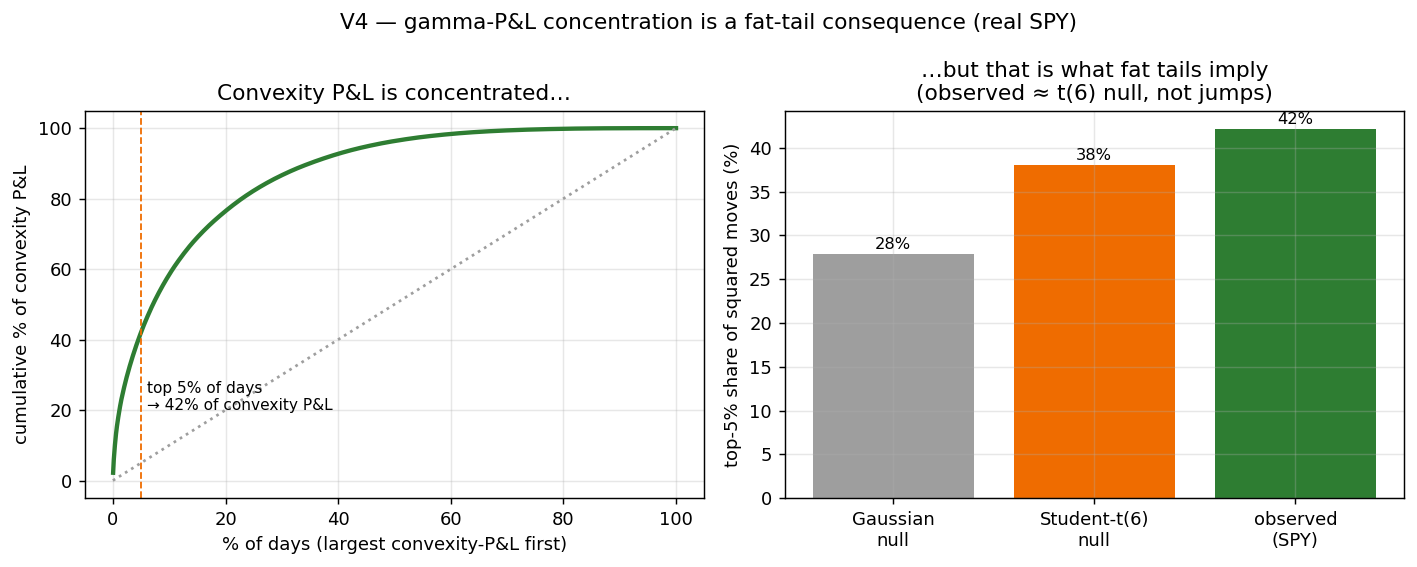
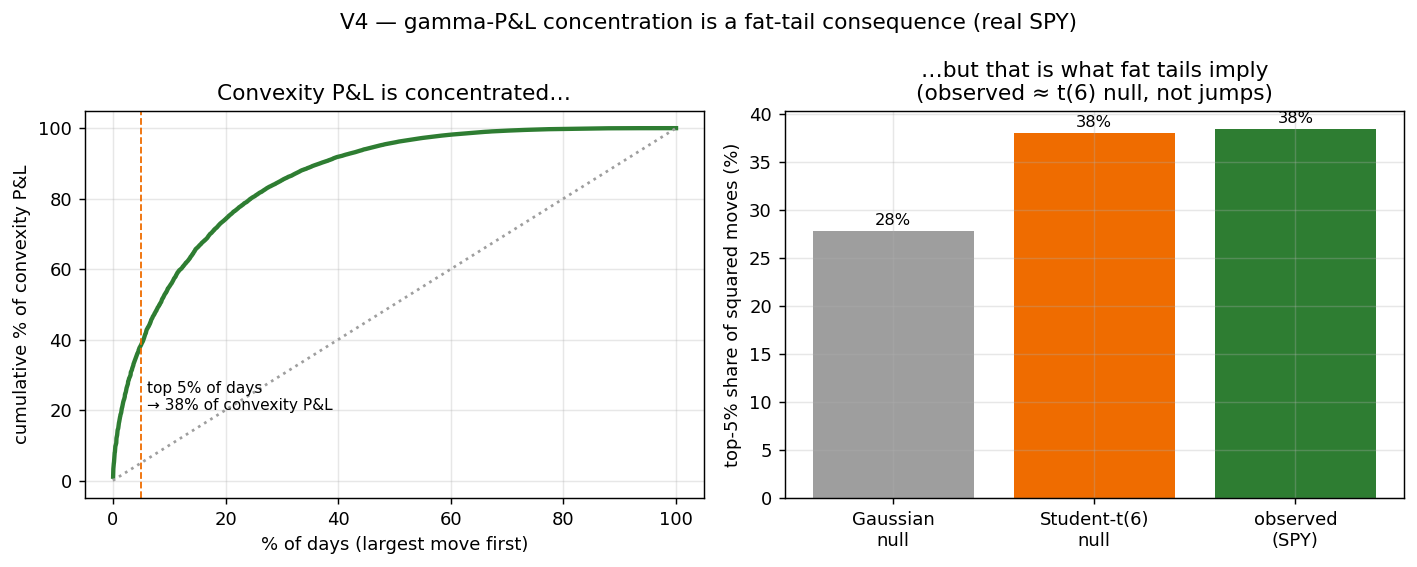
fix(figures): V4 rank by |return|, not convexity P&L, to reproduce notebook 07's 38%
make_figures sorted the concentration curve by the convexity P&L itself
(argsort(gpnl)), which mechanically gives 42% and is a different quantity from
the published claim. Notebook 07 ranks days by |return| (top move-days) and gets
38.4%, which is the number the README, reports/MODEL_ZOO_FINDINGS.md, and the
Medium draft all cite, and on which the V4 narrative depends (the observed
concentration sits on the Student-t(6) null, ~38%, so it illustrates fat tails
rather than jumps).

- Rank by np.abs(ret) in both fig_v4_concentration and _top5_convexity_share.
- Use the notebook's top-k convention (order[:int(0.05*N)]) for the scalar so it
  reads 38%, consistent with the figure's own t(6) null.
- Revert the x-axis label to "largest move first" (correct once the sort matches).

This supersedes the earlier evidence_map change that propagated the 42%: that row
was originally correct at 38% and is restored. evidence_map and v4_concentration
now agree at 38% and match notebook 07.

diff --git a/reports/make_figures.py b/reports/make_figures.py
@@ -43,11 +43,12 @@ def _top5_convexity_share() -> int:
     S, IV = _spy_vix()
     tau = 21 / TRADING_DAYS
     dS = np.diff(S)
+    ret = dS / S[:-1]
     gamma = np.array([BlackScholes(S[t], S[t], tau, R, IV[t]).gamma() for t in range(len(S) - 1)])
     gpnl = 0.5 * gamma * dS ** 2
-    order = np.argsort(gpnl)[::-1]
-    cum = np.cumsum(gpnl[order]) / gpnl.sum()
-    return int(round(cum[int(0.05 * len(cum))] * 100))
+    order = np.argsort(np.abs(ret))[::-1]   # rank by |return| (top move-days), matching notebook 07
+    k5 = int(0.05 * len(ret))
+    return int(round(gpnl[order[:k5]].sum() / gpnl.sum() * 100))
 
 
 def fig_evidence_map() -> None:
@@ -132,17 +133,20 @@ def fig_v4_concentration() -> None:
     S, IV = _spy_vix()
     tau = 21 / TRADING_DAYS
     dS = np.diff(S)
+    ret = dS / S[:-1]
     gamma = np.array([BlackScholes(S[t], S[t], tau, R, IV[t]).gamma() for t in range(len(S) - 1)])
     gpnl = 0.5 * gamma * dS ** 2
-    order = np.argsort(gpnl)[::-1]
+    order = np.argsort(np.abs(ret))[::-1]   # rank by |return| (top move-days), matching notebook 07
     frac = np.arange(1, len(gpnl) + 1) / len(gpnl)
     cum = np.cumsum(gpnl[order]) / gpnl.sum()
+    k5 = int(0.05 * len(ret))
+    obs = gpnl[order[:k5]].sum() / gpnl.sum()   # top-5% move-days, notebook-07 convention
     fig, (a1, a2) = plt.subplots(1, 2, figsize=(11, 4.4))
     a1.plot(frac * 100, cum * 100, color=GREEN, lw=2.4, label="observed (SPY)")
     a1.plot([0, 100], [0, 100], color=GREY, ls=":", label="uniform (no concentration)")
     a1.axvline(5, color=AMBER, ls="--", lw=1)
-    a1.text(6, 20, f"top 5% of days\n→ {cum[int(0.05 * len(cum))] * 100:.0f}% of convexity P&L", fontsize=8.5)
-    a1.set_xlabel("% of days (largest convexity-P&L first)")
+    a1.text(6, 20, f"top 5% of days\n→ {obs * 100:.0f}% of convexity P&L", fontsize=8.5)
+    a1.set_xlabel("% of days (largest move first)")
     a1.set_ylabel("cumulative % of convexity P&L")
     a1.set_title("Convexity P&L is concentrated…")
     rng = np.random.default_rng(42)
@@ -150,7 +154,6 @@ def fig_v4_concentration() -> None:
     top5 = lambda x: np.sort(x ** 2)[-int(0.05 * n):].sum() / (x ** 2).sum()
     gauss = np.mean([top5(rng.standard_normal(n)) for _ in range(800)])
     t6 = np.mean([top5(rng.standard_t(6, n)) for _ in range(800)])
-    obs = cum[int(0.05 * len(cum))]
     a2.bar(["Gaussian\nnull", "Student-t(6)\nnull", "observed\n(SPY)"],
            [gauss * 100, t6 * 100, obs * 100], color=[GREY, AMBER, GREEN])
     a2.set_ylabel("top-5% share of squared moves (%)")